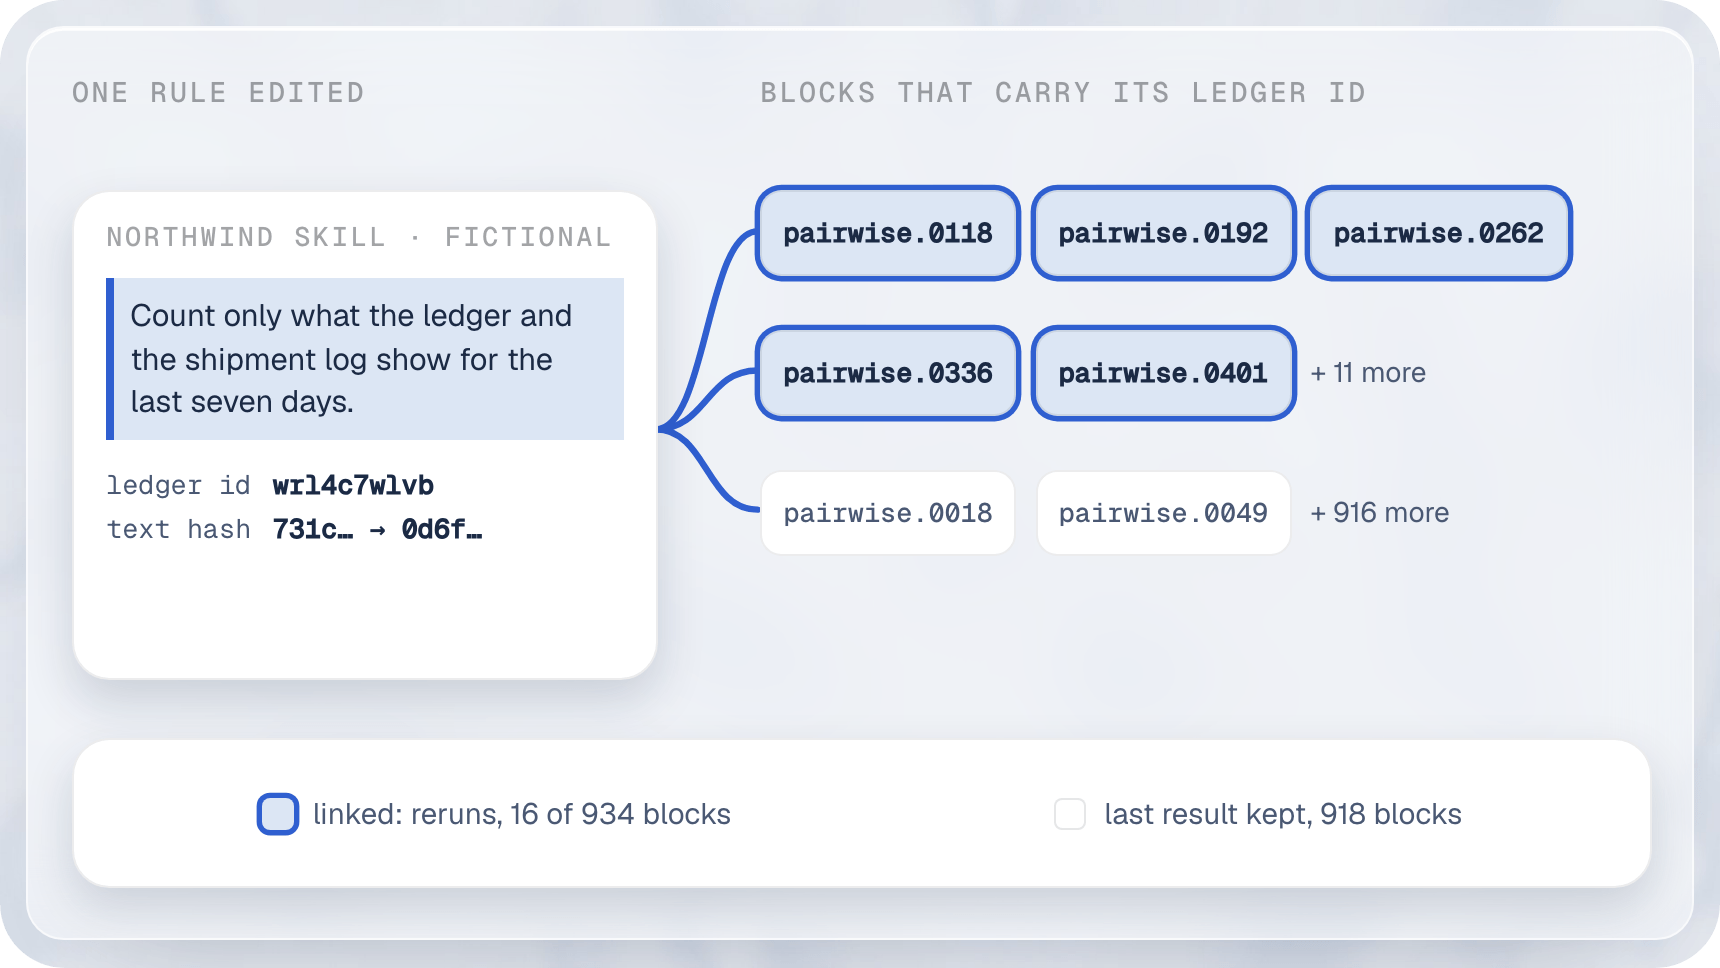
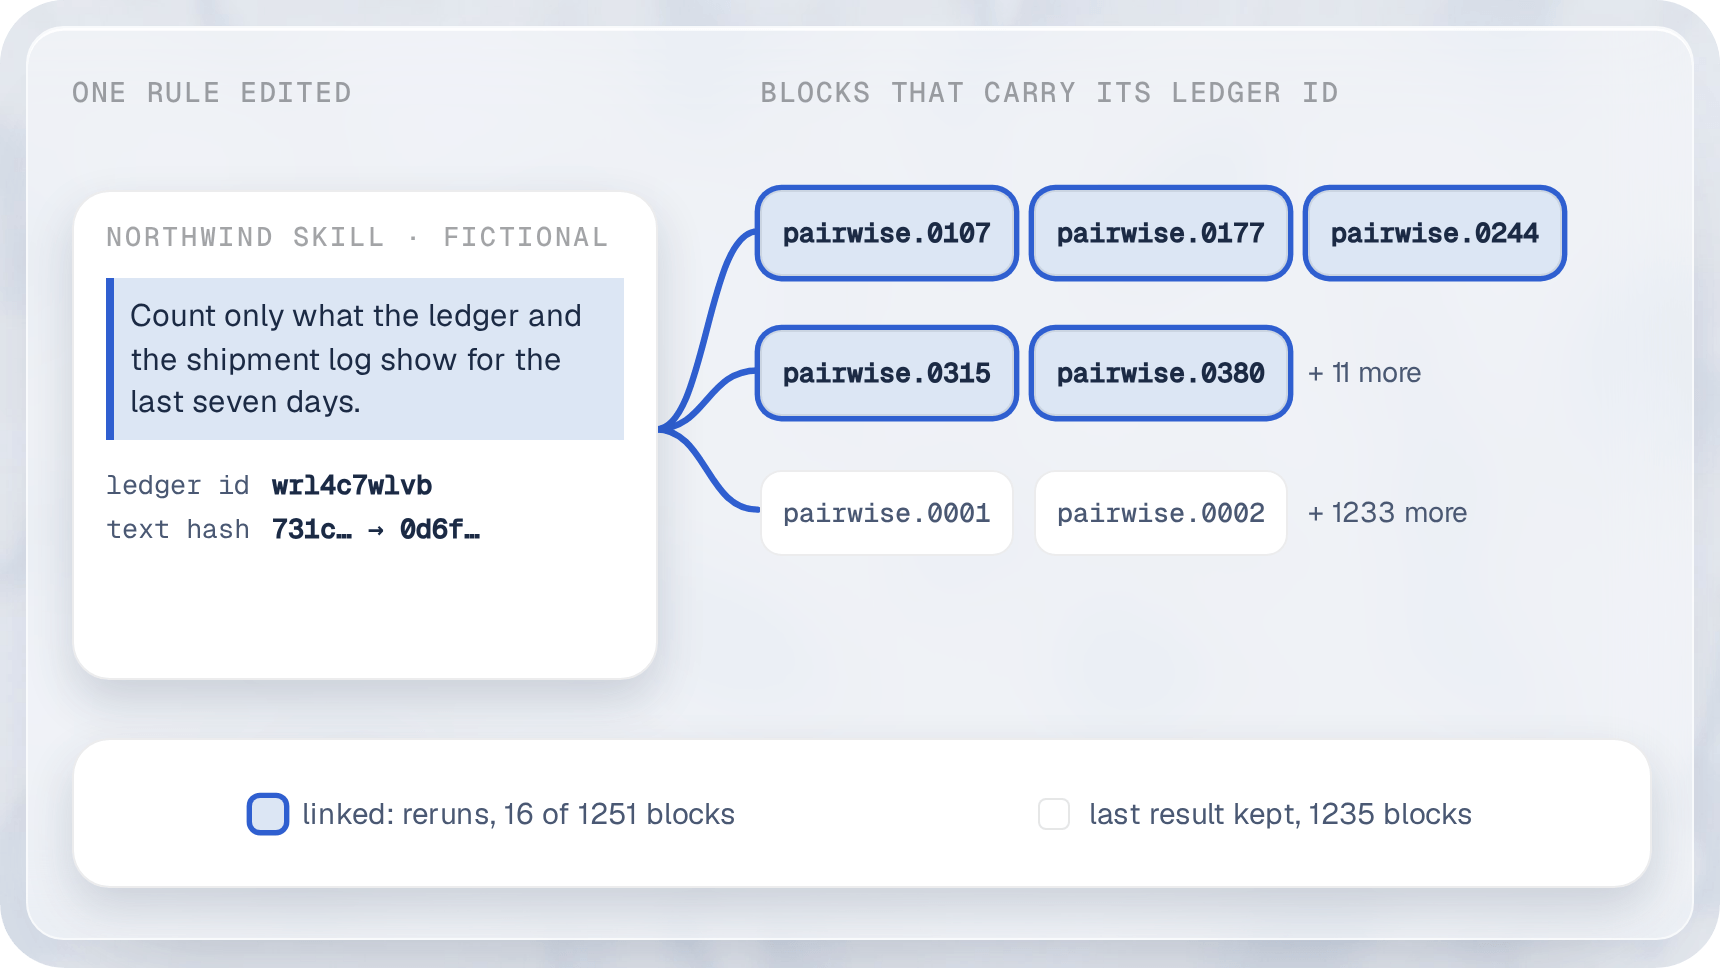
docs: re-render rule-links-{light,dark}.png from the refreshed run
Rendered on GitHub (render probe run 39627881590) with the repo's command, README_TOOLS=<tools> node .github/readme/render.mjs rule-links, after its walk wrote the radius into the source: 16 of 1251 blocks rerun, 1235 keep their last result.

diff --git a/.github/readme/src/rule-links.html b/.github/readme/src/rule-links.html
@@ -20,8 +20,8 @@
 <svg class="nx-edges" viewBox="0 0 620 340"><path class="nx-edge--new" d="M234 150 C253 150 253 76 272 76"/><path class="nx-edge--new" d="M234 150 C253 150 253 128 272 128"/><path class="nx-edge--new" d="M234 150 C253 150 253 180 272 180"/></svg>
 <span class="nx-kind" style="left:16px;top:18px">One rule edited</span><span class="nx-kind" style="left:272px;top:18px">Blocks that carry its ledger id</span>
 <div class="nx-ill-panel prompt"><span class="nx-kind">Northwind skill · fictional</span><div class="code"><div class="edit">Count only what the ledger and the shipment log show for the last seven days.</div><div class="ids"><span>ledger id</span><b>wrl4c7wlvb</b><span>text hash</span><b>731c… → 0d6f…</b></div></div></div>
-<div class="row" style="top:60px"><span class="bk linked">pairwise.0118</span><span class="bk linked">pairwise.0192</span><span class="bk linked">pairwise.0262</span></div>
-<div class="row" style="top:112px"><span class="bk linked">pairwise.0336</span><span class="bk linked">pairwise.0401</span><span class="more">+ 11 more</span></div>
-<div class="row" style="top:164px"><span class="bk">pairwise.0018</span><span class="bk">pairwise.0049</span><span class="more">+ 916 more</span></div>
-<div class="nx-ill-panel legend"><span class="key"><span class="sw linked"></span>linked: reruns, 16 of 934 blocks</span><span class="key"><span class="sw"></span>last result kept, 918 blocks</span></div>
+<div class="row" style="top:60px"><span class="bk linked">pairwise.0107</span><span class="bk linked">pairwise.0177</span><span class="bk linked">pairwise.0244</span></div>
+<div class="row" style="top:112px"><span class="bk linked">pairwise.0315</span><span class="bk linked">pairwise.0380</span><span class="more">+ 11 more</span></div>
+<div class="row" style="top:164px"><span class="bk">pairwise.0001</span><span class="bk">pairwise.0002</span><span class="more">+ 1233 more</span></div>
+<div class="nx-ill-panel legend"><span class="key"><span class="sw linked"></span>linked: reruns, 16 of 1251 blocks</span><span class="key"><span class="sw"></span>last result kept, 1235 blocks</span></div>
 </div></div><script>window.__fonts=['400 11.5px Geist','600 12px Geist','500 10px "Geist Mono"'];Promise.all(window.__fonts.map(f=>document.fonts.load(f))).then(()=>document.fonts.ready).then(()=>window.__ready=true);</script></body></html>

diff --git a/docs/rule-links.md b/docs/rule-links.md
@@ -162,7 +162,7 @@ Mode F, free-running: 16 of 1251 blocks in the radius (16 direct, 0 forward), 12
 <p align="center">
   <picture>
     <source media="(prefers-color-scheme: dark)" srcset="../.github/readme/rule-links-dark.png">
-    <img src="../.github/readme/rule-links-light.png" alt="One rule edited, and the blocks that carry its ledger id. On the left, a fictional Northwind skill sentence, Count only what the ledger and the shipment log show for the last seven days, with its ledger id wrl4c7wlvb and its text hash changing from 731c to 0d6f. On the right, the blocks that carry that ledger id are outlined in blue: pairwise.0118, 0192, 0262, 0336, 0401 and 11 more, 16 of 934 blocks, which rerun. The other 918 blocks keep their last result." width="640" />
+    <img src="../.github/readme/rule-links-light.png" alt="One rule edited, and the blocks that carry its ledger id. On the left, a fictional Northwind skill sentence, Count only what the ledger and the shipment log show for the last seven days, with its ledger id wrl4c7wlvb and its text hash changing from 731c to 0d6f. On the right, the blocks that carry that ledger id are outlined in blue: pairwise.0107, 0177, 0244, 0315, 0380 and 11 more, 16 of 1251 blocks, which rerun. The other 1235 blocks keep their last result." width="640" />
   </picture>
 </p>
 
